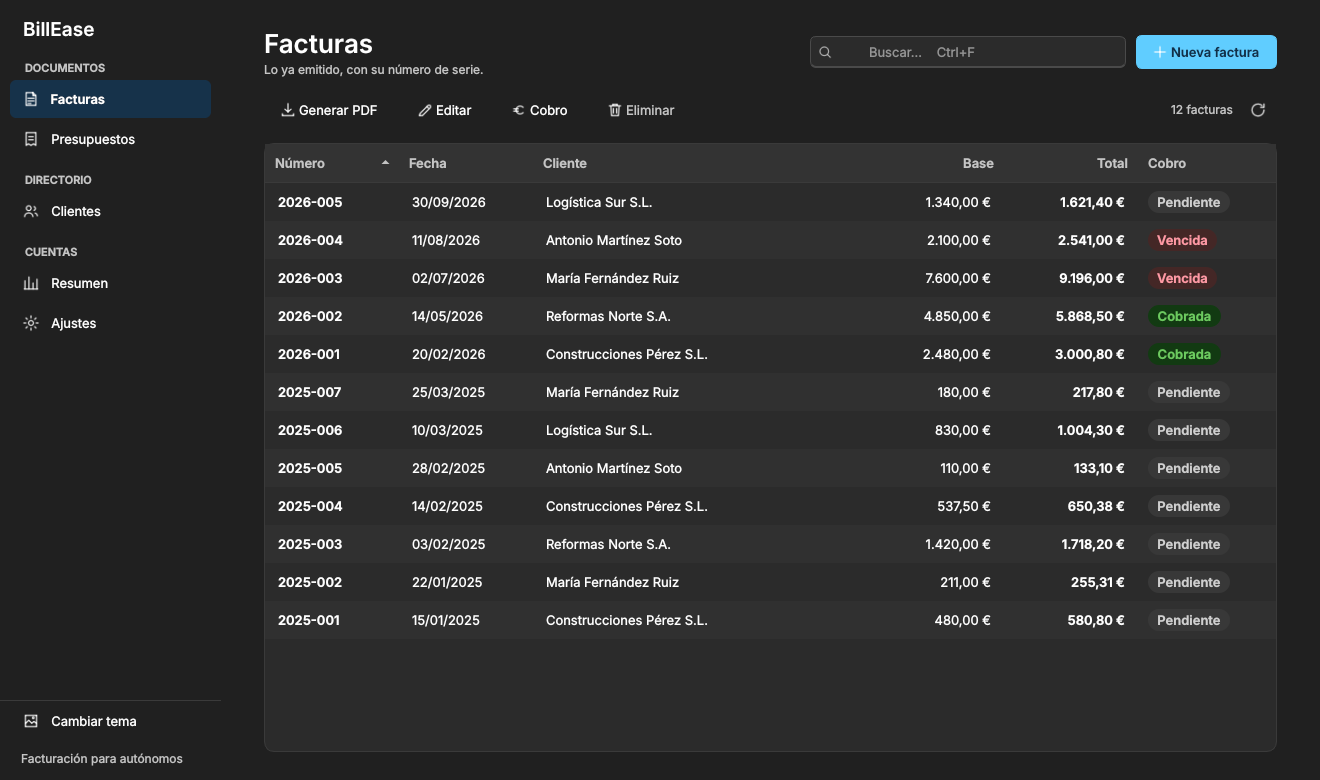
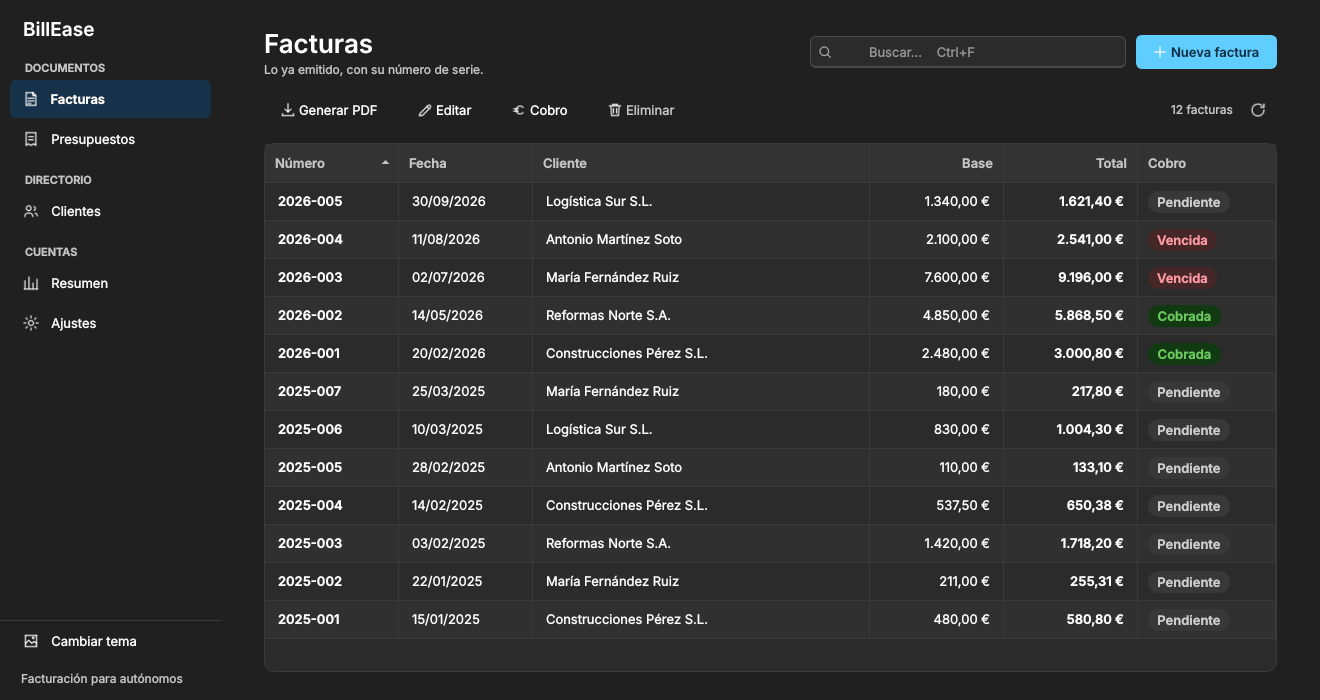
rejilla en las listas y rutas de Windows con espacios o acentos
**La rejilla.** Las listas enseñan ahora una línea fina entre columnas y
entre filas, del mismo gris que el borde de las tarjetas. Con seis columnas
—tres de ellas de números— seguir una fila de izquierda a derecha costaba, y
el color alterno solo no llegaba. Los títulos de las columnas se separan
igual, menos el último.

**Las rutas de Windows.** `sqlite3.connect(f"file:{ruta}?mode=ro", uri=True)`
estaba en cuatro sitios, y eso no es una URI válida cuando la ruta lleva
barras invertidas, espacios o acentos: `C:/Users/José Luis/OneDrive -
Empresa/…` es exactamente donde vive la base de la mitad de España. Ahora se
monta con `Path.as_uri()`, que escapa lo que haya que escapar, y hay una
prueba que crea la base en una carpeta con los dos problemas a la vez y la
copia y la cifra ahí mismo.

Claude-Session: https://claude.ai/code/session_01JUYTvtjeTfyGgoD58oMCQw

diff --git a/tests/test_entrega.py b/tests/test_entrega.py
@@ -126,6 +126,44 @@ def test_una_copia_que_falla_no_impide_cerrar(base, monkeypatch):
     assert not ventana.isVisible()
 
 
+def test_las_rutas_con_espacios_y_acentos_funcionan(tmp_path):
+    """
+    En Windows la base vive en `C:/Users/<nombre>/…`, y los nombres llevan
+    espacios y acentos: «José Luis», «OneDrive - Empresa».
+
+    Pegarle `file:` delante a una ruta así no da una URI válida. Si esto se
+    rompe, el programa falla solo en los ordenadores de quien tiene un nombre
+    con tilde, que es la mitad de España.
+    """
+    from data import backup, caja
+    from data.connection import uri_solo_lectura
+
+    carpeta = tmp_path / "OneDrive - Carpintería José Luis" / "mis facturas"
+    carpeta.mkdir(parents=True)
+    ruta = carpeta / "billease.db"
+
+    import sqlite3
+
+    suelta = sqlite3.connect(ruta)
+    suelta.execute("CREATE TABLE Cliente (nombre TEXT)")
+    suelta.execute("INSERT INTO Cliente VALUES ('María Fernández')")
+    suelta.commit()
+    suelta.close()
+
+    uri = uri_solo_lectura(ruta)
+    assert uri.startswith("file:///") and "%20" in uri      # espacios escapados
+    assert sqlite3.connect(uri, uri=True).execute(
+        "SELECT nombre FROM Cliente"
+    ).fetchone()[0] == "María Fernández"
+
+    # Y las operaciones que la usan: copiar y cifrar.
+    assert backup.copiar(ruta).exists()
+    caja.cifrar(ruta, "Pass1234")
+    conn = caja.abrir(ruta, contrasena="Pass1234")
+    assert conn.execute("SELECT nombre FROM Cliente").fetchone()[0] == "María Fernández"
+    conn.close()
+
+
 # ─────────────────────── el empaquetado ───────────────────────
 
 

diff --git a/data/connection.py b/data/connection.py
@@ -21,6 +21,7 @@ se guarda cifrada en cada `commit()`. El resto del programa no distingue: pide
 
 import sqlite3
 import threading
+from pathlib import Path
 
 from config import asegurar_directorio, ruta_base_datos
 from data import caja
@@ -39,6 +40,20 @@ def _configurar(conn):
         conn.execute("PRAGMA journal_mode = WAL")
         conn.execute("PRAGMA synchronous = NORMAL")
     return conn
+
+
+def uri_solo_lectura(ruta):
+    """
+    La URI con la que SQLite abre un fichero sin poder escribirlo.
+
+    Hay que montarla con `as_uri()` y no pegando `file:` delante de la ruta:
+    en Windows una ruta lleva barras invertidas, letra de unidad y, muy a
+    menudo, espacios o acentos (C:/Users/José Luis/OneDrive - Empresa/…),
+    y nada de eso es una URI válida tal cual (en el original van barras
+    invertidas). `as_uri()` lo traduce a
+    `file:///C:/Users/Jos%C3%A9%20Luis/…`, que es lo que SQLite espera.
+    """
+    return f"{Path(ruta).resolve().as_uri()}?mode=ro"
 
 
 def abrir(ruta=None):

diff --git a/ui/views/listado.py b/ui/views/listado.py
@@ -266,7 +266,9 @@ class Listado(QWidget):
         self.vista.setSelectionMode(QAbstractItemView.SelectionMode.SingleSelection)
         self.vista.setEditTriggers(QAbstractItemView.EditTrigger.NoEditTriggers)
         self.vista.setSortingEnabled(True)
-        self.vista.setShowGrid(False)
+        # Con seis columnas de números, la rejilla ayuda a seguir la fila:
+        # una línea fina entre columnas y entre filas.
+        self.vista.setShowGrid(True)
         self.vista.setWordWrap(False)
         self.vista.verticalHeader().setVisible(False)
         self.vista.verticalHeader().setDefaultSectionSize(38)

diff --git a/tools/verify.py b/tools/verify.py
@@ -145,10 +145,11 @@ def verificar_totales(ruta_base, r):
     import tempfile
     from pathlib import Path as _Path
 
+    from data.connection import uri_solo_lectura
     from core.taxes import calcular, desde_base, desde_detalles, formatear
     from documents.invoice_pdf import generar_documento_pdf
 
-    conn = sqlite3.connect(f"file:{ruta_base}?mode=ro", uri=True)
+    conn = sqlite3.connect(uri_solo_lectura(ruta_base), uri=True)
     try:
         cur = conn.cursor()
         # La columna de la base se llamaba `total` antes de la migración 003,

diff --git a/ui/views/resumen.py b/ui/views/resumen.py
@@ -179,7 +179,7 @@ class Resumen(QWidget):
         self.vista.setAlternatingRowColors(True)
         self.vista.setSelectionBehavior(QAbstractItemView.SelectionBehavior.SelectRows)
         self.vista.setEditTriggers(QAbstractItemView.EditTrigger.NoEditTriggers)
-        self.vista.setShowGrid(False)
+        self.vista.setShowGrid(True)
         self.vista.verticalHeader().setVisible(False)
         self.vista.verticalHeader().setDefaultSectionSize(38)
         self.vista.setSizePolicy(QSizePolicy.Policy.Expanding, QSizePolicy.Policy.Expanding)

diff --git a/data/backup.py b/data/backup.py
@@ -32,6 +32,7 @@ from pathlib import Path
 
 from config import ruta_base_datos
 from data import caja
+from data.connection import uri_solo_lectura
 
 CARPETA = "copias"
 PATRON = "billease-*.db"
@@ -84,7 +85,7 @@ def _copiar_fichero(origen, destino):
         shutil.copy2(origen, destino)
         return destino
 
-    entrada = sqlite3.connect(f"file:{origen}?mode=ro", uri=True)
+    entrada = sqlite3.connect(uri_solo_lectura(origen), uri=True)
     salida = sqlite3.connect(destino)
     try:
         entrada.backup(salida)

diff --git a/data/caja.py b/data/caja.py
@@ -194,7 +194,9 @@ def cifrar(origen, contrasena, destino=None):
 
     # Se lee con la API de copia de SQLite y no leyendo el fichero: la base
     # va en modo WAL, así que el `.db` a secas puede no tener lo último.
-    entrada = sqlite3.connect(f"file:{origen}?mode=ro", uri=True)
+    from data.connection import uri_solo_lectura
+
+    entrada = sqlite3.connect(uri_solo_lectura(origen), uri=True)
     memoria = sqlite3.connect(":memory:")
     try:
         entrada.backup(memoria)

diff --git a/tools/inventario.py b/tools/inventario.py
@@ -42,7 +42,9 @@ def leer(ruta=None):
     if not ruta.exists():
         raise FileNotFoundError(f"No existe la base de datos: {ruta}")
 
-    conn = sqlite3.connect(f"file:{ruta}?mode=ro", uri=True)
+    from data.connection import uri_solo_lectura
+
+    conn = sqlite3.connect(uri_solo_lectura(ruta), uri=True)
     try:
         cur = conn.cursor()
         tablas_existentes = {
